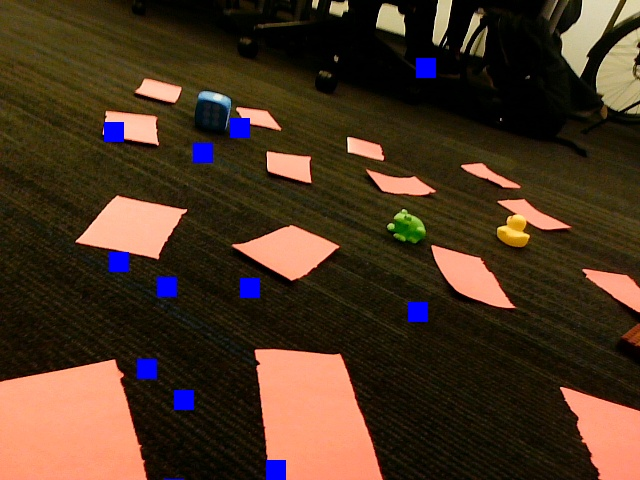
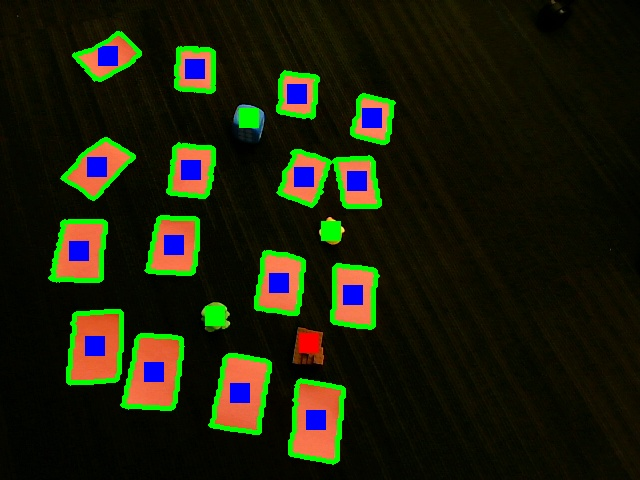
grid/localization stuff, mostly done but might need to test inside cory

diff --git a/surveyorbot/localization.py b/surveyorbot/localization.py
@@ -5,17 +5,17 @@ lower = {}
 upper = {}
 lower["blue"] = np.array([100,40,40])
 upper["blue"] = np.array([150,255,255])
-lower["red"] = np.array([-20, 100, 100])
-upper["red"] = np.array([13, 255, 255])
+lower["red"] = np.array([-20, 70, 50])
+upper["red"] = np.array([10, 255, 255])
 lower["green"] = np.array([40, 40, 40])
 upper["green"] = np.array([70, 255, 255])
-lower["brown"] = np.array([10, 100, 20])
+lower["brown"] = np.array([10, 100, 100])
 upper["brown"] = np.array([20, 255, 200])
 lower["yellow"] = np.array([20, 100, 100])
 upper["yellow"] = np.array([30, 255, 255])
 
 # define a video capture object 
-vid = cv2.VideoCapture("/dev/video3") 
+vid = cv2.VideoCapture("/dev/video0") 
   
 def get_frame():
     _, frame = vid.read()
@@ -36,7 +36,7 @@ def is_object_present(mask, threshold):
         moments = cv2.moments(largest_contour)
         cX = int(moments["m10"] // moments["m00"])
         cY = int(moments["m01"] // moments["m00"])
-        return cX, cY #largest_contour.mean(axis=(0, 1)).astype(np.int32).transpose()
+        return cY, cX #largest_contour.mean(axis=(0, 1)).astype(np.int32).transpose()
     return None
     # result = cv2.bitwise_and(result, result, mask=mask)
 
@@ -52,33 +52,45 @@ def get_grid_coords(image, size=4):
     coords = []
     for tile in grid_tiles:
         moments = cv2.moments(tile)
-        cX = int(moments["m10"] // moments["m00"])
-        cY = int(moments["m01"] // moments["m00"])
-        coords.append((cX, cY))
+        cX = int(moments["m10"] // (moments["m00"] + 1e-5))
+        cY = int(moments["m01"] // (moments["m00"] + 1e-5))
+        coords.append((cY, cX))
     
     return coords, grid_tiles
 
 if __name__ == "__main__":
     image = get_frame()
-    cv2.imshow("img", cv2.cvtColor(image, cv2.COLOR_HSV2BGR))
-    cv2.waitKey(1)
-    # mask = detect_color(image, "blue")
-    # temp_mask = cv2.cvtColor(mask, cv2.COLOR_GRAY2BGR)
-    # cv2.imwrite("temp.jpg", temp_mask)
-    # cv2.imshow("mask", temp_mask)
-    # cv2.waitKey(1)
+    cv2.imwrite("grid_layout.jpg", cv2.cvtColor(image, cv2.COLOR_HSV2BGR))
 
-    # coord = is_object_present(mask, threshold=50)
-    # if coord is not None:
-    #     temp_mask[coord[0]-10:coord[0]+10, coord[1]-10:coord[1]+10] = [255, 0, 0]
-    #     cv2.imwrite("center.jpg", temp_mask)
-    # else:
-    #     print("not detected")
     coords, grid_tiles = get_grid_coords(image)
     print(coords)
     temp_image = cv2.cvtColor(image, cv2.COLOR_HSV2BGR)
     for coord in coords:
         temp_image[coord[0]-10:coord[0]+10, coord[1]-10:coord[1]+10] = [255, 0, 0]
     for cont in grid_tiles:
-        cv2.drawContours(image, [cont], -1, (0, 255, 0), 3)
+        cv2.drawContours(temp_image, [cont], -1, (0, 255, 0), 3)
+
+    for color in ["blue", "green", "yellow"]:
+        mask = detect_color(image, color)
+        temp_mask = cv2.cvtColor(mask, cv2.COLOR_GRAY2BGR)
+        cv2.imwrite("temp.jpg", temp_mask)
+        cv2.imshow("mask", temp_mask)
+        cv2.waitKey(1)
+        coord = is_object_present(mask, threshold=50)
+        if coord is not None:
+            temp_image[coord[0]-10:coord[0]+10, coord[1]-10:coord[1]+10] = [0, 255, 0]
+        else:
+            print("not detected")
+    
+    mask = detect_color(image, "brown")
+    temp_mask = cv2.cvtColor(mask, cv2.COLOR_GRAY2BGR)
+    cv2.imwrite("temp.jpg", temp_mask)
+    cv2.imshow("mask", temp_mask)
+    cv2.waitKey(1)
+    coord = is_object_present(mask, threshold=50)
+    if coord is not None:
+        temp_image[coord[0]-10:coord[0]+10, coord[1]-10:coord[1]+10] = [0, 0, 255]
+    else:
+        print("not detected")
+
     cv2.imwrite("grid.jpg", temp_image)
